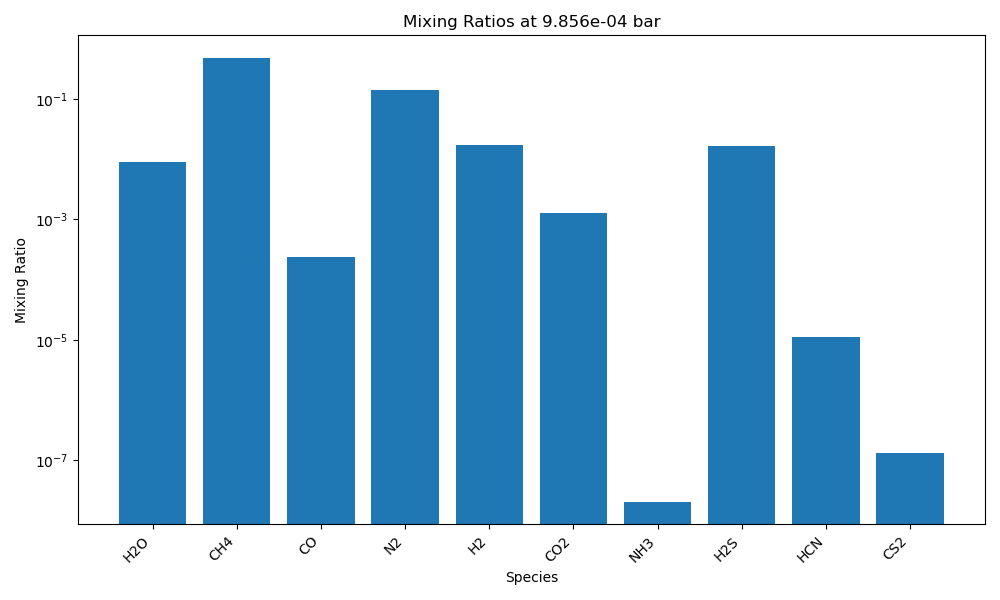
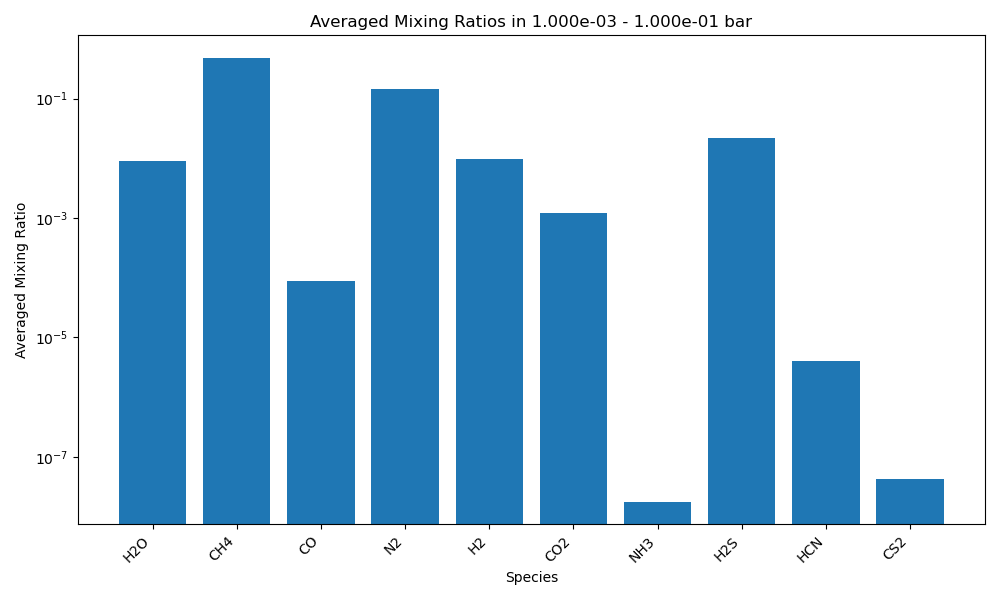
use_range working

diff --git a/parser/parser.py b/parser/parser.py
@@ -67,9 +67,9 @@ def parser(vul_data,spec,plot_name,min_pressure_bar,max_pressure_bar=1,use_range
             sys.exit(1)
         print(f"Plotting data averaged over pressure range: {min_pressure_bar:.3e} - {max_pressure_bar:.3e} bar")
     else:
-        pressure = min_pressure_bar
         # Find the closest pressure index
-        closest_idx = np.argmin(np.abs(pressure_array - pressure))
+        closest_idx = np.argmin(np.abs(pressure_array - min_pressure_bar))
+        selected_indices = [closest_idx]
 
         print(f"Plotting data at closest pressure: {pressure_array[closest_idx]:.3e} bar")
 
@@ -79,7 +79,8 @@ def parser(vul_data,spec,plot_name,min_pressure_bar,max_pressure_bar=1,use_range
 
     for sp in spec:
         if sp in vulcan_spec:
-            mixing_ratios.append(data['variable']['ymix'][closest_idx, vulcan_spec.index(sp)])
+            avg_ratio = np.mean(data['variable']['ymix'][selected_indices, vulcan_spec.index(sp)])
+            mixing_ratios.append(avg_ratio)
             species_labels.append(sp)
         else:
             print(f"Warning: {sp} not found in the dataset.")
@@ -89,8 +90,8 @@ def parser(vul_data,spec,plot_name,min_pressure_bar,max_pressure_bar=1,use_range
     plt.bar(species_labels, mixing_ratios, log=True)
 
     plt.xlabel("Species")
-    plt.ylabel("Mixing Ratio")
-    plt.title(f"Mixing Ratios at {pressure_array[closest_idx]:.3e} bar")
+    plt.ylabel("Mixing Ratio" if not use_range else "Averaged Mixing Ratio")
+    plt.title(f"Mixing Ratios at {pressure_array[closest_idx]:.3e} bar" if not use_range else f"Averaged Mixing Ratios between {min_pressure_bar:.3e} - {max_pressure_bar:.3e} bar")
     plt.xticks(rotation=45, ha="right")
     plt.yscale("log")  # Log scale for better visualization
 
